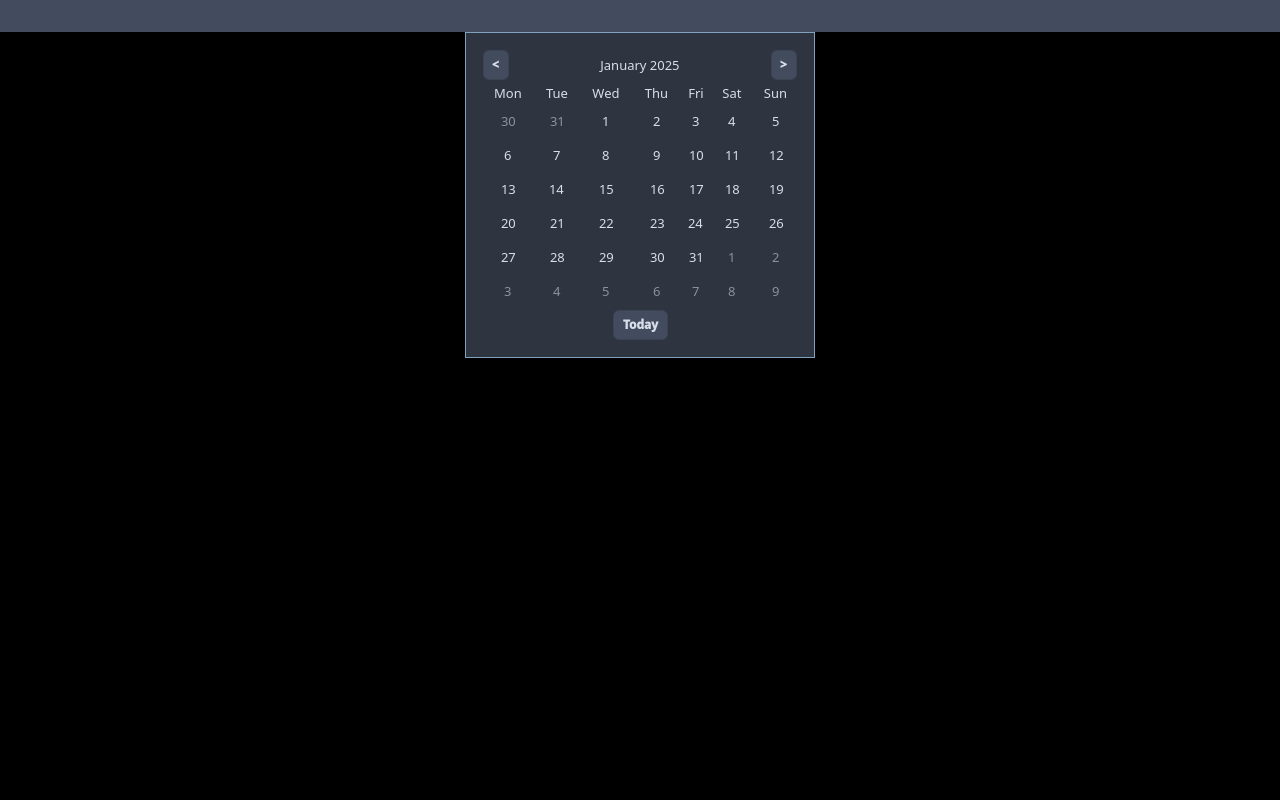
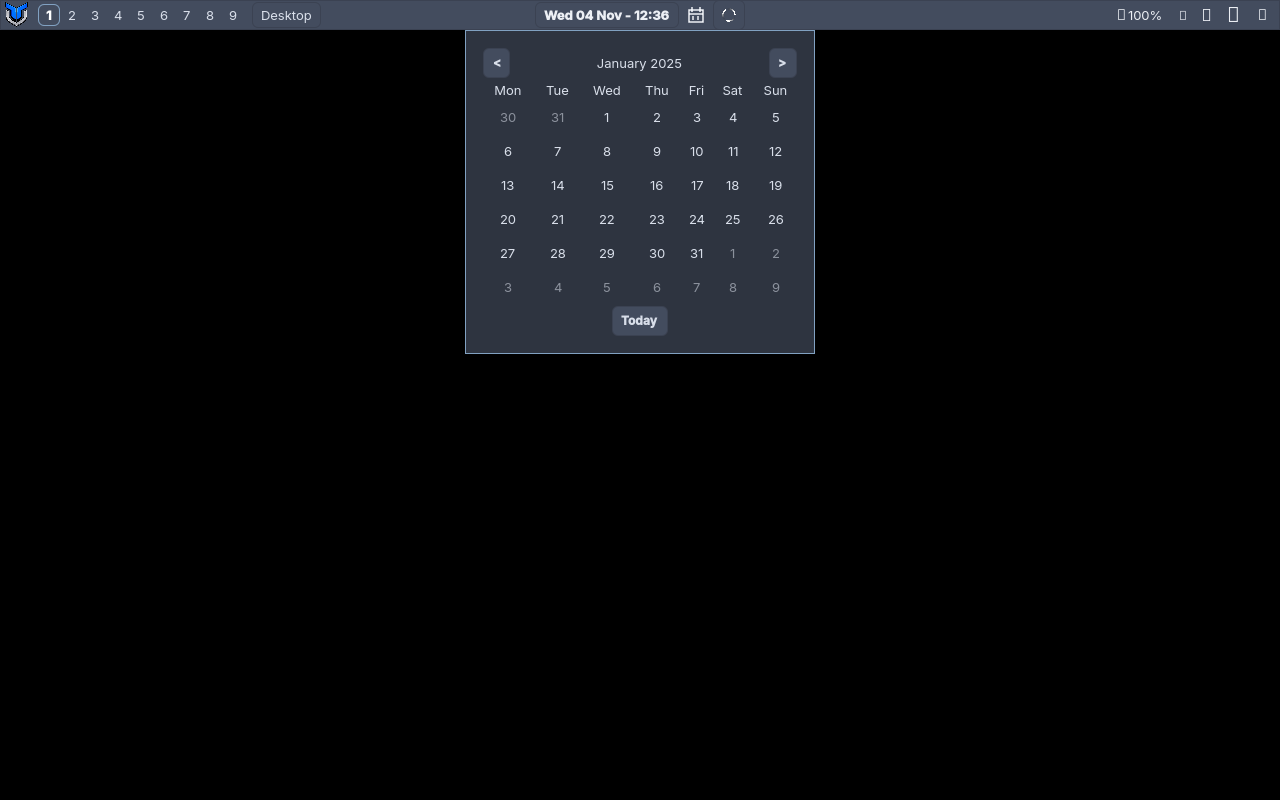
fix: close panel popups and bound saved weather reports

diff --git a/config/quickshell/shell.qml b/config/quickshell/shell.qml
@@ -37,6 +37,11 @@ ShellRoot {
         ? activePanelWindow.screen
         : (Quickshell.screens.length > 0 ? Quickshell.screens[0] : null)
 
+    function closePanelWidgets() {
+        calendarModel.close();
+        weatherModel.close();
+    }
+
     function selectPanelPopup(panel, popupId) {
         if (!panel || !panel.screen) {
             return;
@@ -155,8 +160,7 @@ ShellRoot {
 
         onVisibleChanged: {
             if (visible) {
-                calendarModel.close();
-                weatherModel.close();
+                root.closePanelWidgets();
                 commandMenuModel.close();
                 clipboardModel.close();
                 updateCenterModel.close();
@@ -167,7 +171,7 @@ ShellRoot {
     CommandMenuModel {
         id: commandMenuModel
         launcherModel: launcherModel
-        onVisibleChanged: if (visible) { updateCenterModel.close(); clipboardModel.close(); }
+        onVisibleChanged: if (visible) { root.closePanelWidgets(); updateCenterModel.close(); clipboardModel.close(); }
         currentEntryIds: {
             const ids = [];
 
@@ -205,6 +209,7 @@ ShellRoot {
 
         onVisibleChanged: {
             if (visible) {
+                root.closePanelWidgets();
                 launcherModel.close();
                 commandMenuModel.close();
                 updateCenterModel.close();
@@ -220,7 +225,7 @@ ShellRoot {
     PowerMenuModel {
         id: powerMenuModel
         powerModel: powerModel
-        onVisibleChanged: if (visible) { updateCenterModel.close(); clipboardModel.close(); }
+        onVisibleChanged: if (visible) { root.closePanelWidgets(); updateCenterModel.close(); clipboardModel.close(); }
     }
 
     PowerModel {
@@ -259,24 +264,24 @@ ShellRoot {
 
     NetworkModel {
         id: networkModel
-        onVisibleChanged: if (visible) { updateCenterModel.close(); clipboardModel.close(); }
+        onVisibleChanged: if (visible) { root.closePanelWidgets(); updateCenterModel.close(); clipboardModel.close(); }
     }
 
     ControlsModel {
         id: controlsModel
-        onVisibleChanged: if (visible) { updateCenterModel.close(); clipboardModel.close(); }
+        onVisibleChanged: if (visible) { root.closePanelWidgets(); updateCenterModel.close(); clipboardModel.close(); }
     }
 
     BluetoothModel {
         id: bluetoothModel
-        onVisibleChanged: if (visible) { updateCenterModel.close(); clipboardModel.close(); }
+        onVisibleChanged: if (visible) { root.closePanelWidgets(); updateCenterModel.close(); clipboardModel.close(); }
     }
 
     ControlCenterModel {
         id: controlCenterModel
         powerModel: powerModel
         panelSettingsModel: panelSettingsModel
-        onVisibleChanged: if (visible) { updateCenterModel.close(); clipboardModel.close(); }
+        onVisibleChanged: if (visible) { root.closePanelWidgets(); updateCenterModel.close(); clipboardModel.close(); }
         onUtilityVisibleChanged: if (utilityVisible) { updateCenterModel.close(); clipboardModel.close(); }
     }
 
@@ -304,11 +309,13 @@ ShellRoot {
 
     UpdateCenterModel {
         id: updateCenterModel
+        onVisibleChanged: if (visible) root.closePanelWidgets();
         desktopUpdateModel: desktopUpdateModel
     }
 
     SettingsModel {
         id: settingsModel
+        onVisibleChanged: if (visible) root.closePanelWidgets();
         networkModel: networkModel
         bluetoothModel: bluetoothModel
         controlsModel: controlsModel
@@ -336,7 +343,7 @@ ShellRoot {
 
     NotificationModel {
         id: notificationModel
-        onHistoryVisibleChanged: if (historyVisible) { updateCenterModel.close(); clipboardModel.close(); }
+        onHistoryVisibleChanged: if (historyVisible) { root.closePanelWidgets(); updateCenterModel.close(); clipboardModel.close(); }
     }
 
     IpcHandler {

diff --git a/config/quickshell/panel/UtilityWidgetButton.qml b/config/quickshell/panel/UtilityWidgetButton.qml
@@ -1,0 +1,66 @@
+import QtQuick
+import QtQuick.Layouts
+import qs.core
+
+PanelPill {
+    id: root
+    required property string kind
+    required property string label
+    signal activated
+    Layout.preferredWidth: Theme.pillHeight
+    Layout.preferredHeight: Theme.pillHeight
+    activeFocusOnTab: true
+    outlined: root.activeFocus
+    hovered: pointer.containsMouse
+    Accessible.role: Accessible.Button
+    Accessible.name: root.label
+    Accessible.onPressAction: root.activated()
+    Keys.onPressed: event => {
+        if (event.key === Qt.Key_Return || event.key === Qt.Key_Enter || event.key === Qt.Key_Space) {
+            root.activated(); event.accepted = true;
+        }
+    }
+    // Small native vector controls do not depend on a particular icon font.
+    Canvas {
+        id: icon
+        anchors.centerIn: parent
+        width: Theme.scaledSize(18)
+        height: width
+        property color ink: Theme.textStrong
+        onInkChanged: requestPaint()
+        onPaint: {
+            const context = getContext("2d");
+            context.clearRect(0, 0, width, height);
+            const scale = width / 18;
+            context.save();
+            context.scale(scale, scale);
+            context.strokeStyle = icon.ink;
+            context.lineWidth = 1.5;
+            context.beginPath();
+            if (root.kind === "calendar") {
+                context.rect(2, 4, 14, 12);
+                context.moveTo(2, 8); context.lineTo(16, 8);
+                context.moveTo(5, 1); context.lineTo(5, 6);
+                context.moveTo(13, 1); context.lineTo(13, 6);
+                context.moveTo(6, 10); context.lineTo(6, 14);
+                context.moveTo(11, 10); context.lineTo(11, 14);
+            } else {
+                context.arc(9, 9, 3.5, 0, Math.PI * 2);
+                for (let ray = 0; ray < 8; ray++) {
+                    const angle = ray * Math.PI / 4;
+                    context.moveTo(9 + Math.cos(angle) * 5.5, 9 + Math.sin(angle) * 5.5);
+                    context.lineTo(9 + Math.cos(angle) * 8.5, 9 + Math.sin(angle) * 8.5);
+                }
+            }
+            context.stroke();
+            context.restore();
+        }
+    }
+    MouseArea {
+        id: pointer
+        anchors.fill: parent
+        hoverEnabled: true
+        cursorShape: Qt.PointingHandCursor
+        onClicked: root.activated()
+    }
+}

diff --git a/config/quickshell/panel/DwmPanel.qml b/config/quickshell/panel/DwmPanel.qml
@@ -215,22 +215,18 @@ PanelWindow {
                 }
             }
 
-            ShellButton {
+            UtilityWidgetButton {
                 objectName: "calendarIndicator"
                 visible: root.panelSettingsModel.widgetEnabled("calendar")
-                label: ""
-                leadingLabel: "\uF073"
-                Accessible.name: "Calendar"
-                accessibleDescription: "Open month calendar"
+                kind: "calendar"
+                label: "Calendar"
                 onActivated: root.popupRequested(root, "calendar")
             }
-            ShellButton {
+            UtilityWidgetButton {
                 objectName: "weatherIndicator"
                 visible: root.panelSettingsModel.widgetEnabled("weather")
-                label: ""
-                leadingLabel: "\uF0C2"
-                Accessible.name: "Weather"
-                accessibleDescription: "Open weather"
+                kind: "weather"
+                label: "Weather"
                 onActivated: root.popupRequested(root, "weather")
             }
 

diff --git a/tests/test-calendar-weather.py b/tests/test-calendar-weather.py
@@ -70,42 +70,28 @@ with tempfile.TemporaryDirectory(dir=os.environ["TMPDIR"]) as directory:
             + "module=importlib.machinery.SourceFileLoader('weather'," + repr(str(repo / "scripts/dwm-weather")) + ").load_module()\n"
             + "module.PROVIDER=" + repr(f"http://127.0.0.1:{server.server_port}/") + "\nsys.exit(module.main())\n")
         wrapper.chmod(0o755)
-        qml = work / "qml"
-        qml.mkdir()
-        for name in ("core", "panel", "assets"):
-            (qml / name).symlink_to(repo / "config/quickshell" / name)
-        (qml / "shell.qml").write_text('''import QtQuick
-import Quickshell
-import Quickshell.Io
-import "panel"
-import qs.core
-ShellRoot {
-    CalendarModel { id: calendarProvider; timestamp: new Date(2024, 1, 29, 12).getTime() }
-    WeatherModel { id: weatherProvider }
-    PanelSettingsModel {
-        id: settingsProvider
-        onValuesChanged: {
-            if (!widgetEnabled("calendar")) calendarProvider.close();
-            if (!widgetEnabled("weather")) weatherProvider.close();
-        }
-    }
-    PanelWindow { id: panel; anchors { top:true; left:true; right:true } implicitHeight:32; color:Theme.barBackground }
-    CalendarWindow { model:calendarProvider; panelWindow:panel }
-    WeatherWindow { model:weatherProvider; panelWindow:panel }
+        qml = work / "config/quickshell"
+        shutil.copytree(repo / "config/quickshell", qml)
+        shell_source = (qml / "shell.qml").read_text()
+        integration = """
     IpcHandler {
         target: "widgetTest"
-        function state(): string { return JSON.stringify({weather:weatherProvider.weather, fetched:weatherProvider.fetched,
-            location:weatherProvider.location, unit:weatherProvider.unit, busy:weatherProvider.busy, message:weatherProvider.message,
-            weatherVisible:weatherProvider.visible, calendarVisible:calendarProvider.visible, month:calendarProvider.month,
-            year:calendarProvider.year, days:calendarProvider.days, widgets:settingsProvider.values, provider:settingsProvider.providerState}); }
-        function calendar(): void { weatherProvider.close(); calendarProvider.toggle(); }
-        function weather(): void { calendarProvider.close(); weatherProvider.toggle(); }
-        function month(delta:int): void { calendarProvider.changeMonth(delta); }
-        function widget(id:string, enabled:bool): void { settingsProvider.setWidget(id, enabled); }
-        function fetch(city:string, unit:string): void { weatherProvider.fetch(city, unit); }
+        function state(): string { return JSON.stringify({weather:weatherModel.weather, fetched:weatherModel.fetched,
+            location:weatherModel.location, unit:weatherModel.unit, busy:weatherModel.busy, message:weatherModel.message,
+            weatherVisible:weatherModel.visible, calendarVisible:calendarModel.visible, month:calendarModel.month,
+            year:calendarModel.year, days:calendarModel.days, widgets:panelSettingsModel.values,
+            provider:panelSettingsModel.providerState, clipboardVisible:clipboardModel.visible}); }
+        function calendar(): void {
+            calendarModel.timestamp = new Date(2024, 1, 29, 12).getTime();
+            root.requestPanelPopup(root.defaultPanelWindow, "calendar");
+        }
+        function weather(): void { root.requestPanelPopup(root.defaultPanelWindow, "weather"); }
+        function month(delta:int): void { calendarModel.changeMonth(delta); }
+        function widget(id:string, enabled:bool): void { panelSettingsModel.setWidget(id, enabled); }
+        function fetch(city:string, unit:string): void { weatherModel.fetch(city, unit); }
     }
-}
-''')
+"""
+        (qml / "shell.qml").write_text(shell_source.rsplit("}", 1)[0] + integration + "}\n")
         processes = []
         try:
             log = open(work / "dwm.log", "w")
@@ -144,6 +130,11 @@ ShellRoot {
                 ImageGrab.grab(xdisplay=os.environ["DISPLAY"]).save(Path(evidence) / "calendar-widget.png")
             run("xdotool", "key", "Escape")
             wait(lambda: not state()["calendarVisible"], "Calendar Escape failed")
+            # Exercise the actual production root, IPC and default shortcut.
+            ipc("calendar")
+            run("xdotool", "key", "super+v")
+            wait(lambda: state()["clipboardVisible"] and not state()["calendarVisible"], "Clipboard shortcut left Calendar above the clipboard")
+            run("quickshell", "ipc", "--path", str(qml / "shell.qml"), "call", "clipboard", "close")
             ipc("widget", "weather", "true")
             wait(lambda: state()["widgets"]["weather"], "Weather toggle did not persist")
             ipc("weather")
@@ -156,6 +147,10 @@ ShellRoot {
             assert state()["weather"]["temperature"] == "22"
             if evidence:
                 ImageGrab.grab(xdisplay=os.environ["DISPLAY"]).save(Path(evidence) / "weather-widget.png")
+            run("xdotool", "key", "super+v")
+            wait(lambda: state()["clipboardVisible"] and not state()["weatherVisible"], "Clipboard shortcut left Weather above the clipboard")
+            run("quickshell", "ipc", "--path", str(qml / "shell.qml"), "call", "clipboard", "close")
+            ipc("weather")
             Handler.code = 503
             ipc("fetch", "London", "f")
             wait(lambda: state()["message"].startswith("Weather unavailable") and not state()["busy"], "Offline failure was not reported")
@@ -174,7 +169,7 @@ ShellRoot {
             time.sleep(2)
             after = sum(map(int, Path(f"/proc/{shell.pid}/stat").read_text().rsplit(")", 1)[1].split()[11:13]))
             assert after - before <= 15
-            print(f"Calendar leap year/navigation, popup Escape/click-away, persisted toggles, no automatic weather requests, explicit fetch/failure cache: PASS; closed idle ticks/2s={after-before}")
+            print(f"Calendar leap year/navigation, popup Escape/click-away/clipboard hotkey, persisted toggles, no automatic weather requests, explicit fetch/failure cache: PASS; closed idle ticks/2s={after-before}")
         finally:
             if sys.exc_info()[0]:
                 print((work / "qml.log").read_text() if (work / "qml.log").exists() else "No QML log", file=sys.stderr)

diff --git a/tests/test-weather.py b/tests/test-weather.py
@@ -63,6 +63,16 @@ class WeatherTests(unittest.TestCase):
                 weather.fetch("London", "c")
         self.assertEqual(weather.load(), previous)
 
+    def test_overlong_numeric_fields_cannot_replace_a_saved_report(self):
+        self.fetch()
+        original = weather.state_path().read_bytes()
+        for key in ("temp_C", "FeelsLikeC", "humidity", "windspeedKmph"):
+            response = json.loads(json.dumps(sample))
+            response["current_condition"][0][key] = "0." + "0" * 200
+            with self.subTest(field=key), self.assertRaises(ValueError):
+                self.fetch(body=json.dumps(response).encode())
+            self.assertEqual(weather.state_path().read_bytes(), original)
+
     def test_invalid_state_is_preserved_without_network(self):
         path = weather.state_path()
         path.parent.mkdir()
@@ -71,6 +81,16 @@ class WeatherTests(unittest.TestCase):
             with self.assertRaises(ValueError):
                 weather.fetch("London", "c")
         self.assertIn('"location":42', path.read_text())
+
+    def test_encoded_report_limit_cannot_poison_the_cache(self):
+        self.fetch()
+        original = weather.state_path().read_bytes()
+        response = json.loads(json.dumps(sample))
+        for key in ("temp_C", "FeelsLikeC", "humidity", "windspeedKmph"):
+            response["current_condition"][0][key] = "0." + "\U0001d7ce" * 190
+        with self.assertRaises(ValueError):
+            self.fetch(body=json.dumps(response).encode())
+        self.assertEqual(weather.state_path().read_bytes(), original)
 
     def test_symlink_state_cannot_overwrite_target(self):
         path = weather.state_path()
